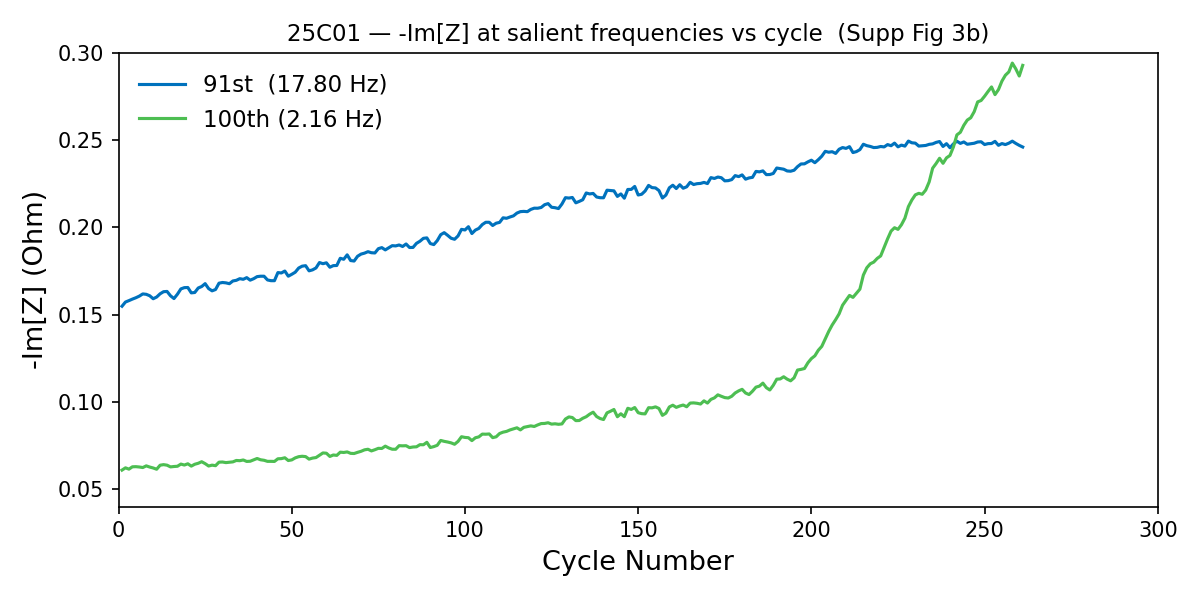
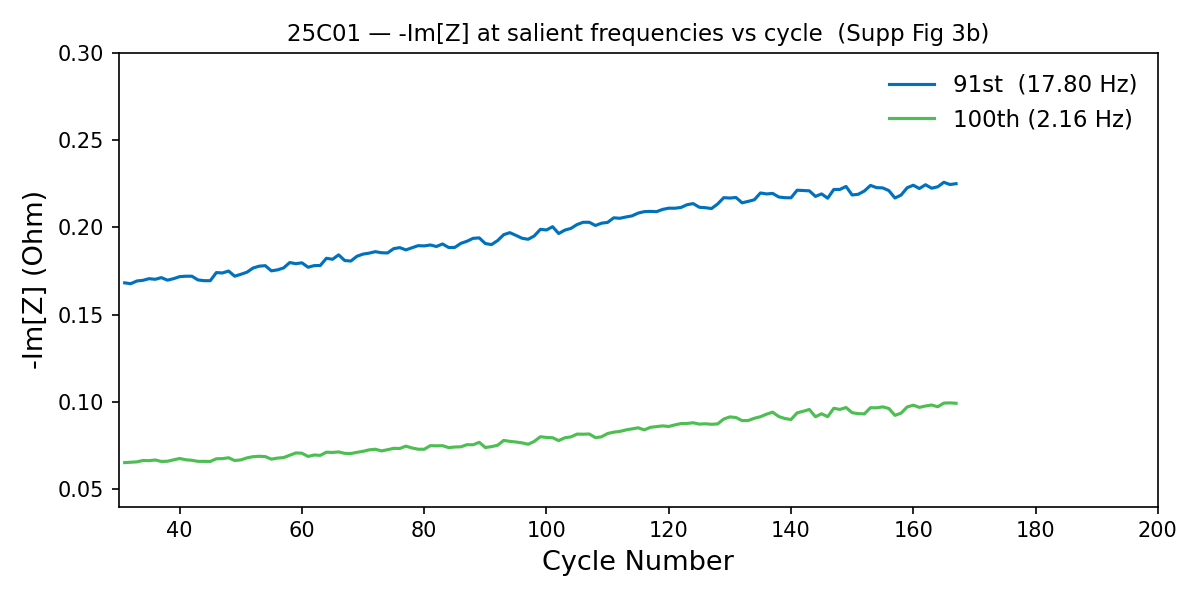
Fix supplement figures: normalize capacity retention, trim -Im[Z] to EOL
Supp Fig 4: y-axis now shows capacity retention fraction (normalized to
cap[30]) instead of absolute mAh; x-axis starts from cycle 30 to exclude
RT pre-formation cycling, matching paper convention.

Supp Fig 3b: trim -Im[Z] vs cycle to EOL (index 166 for 25C01) and skip
first 30 pre-formation cycles. Both features now show the strong linear
increase described in the paper; previously the 2.16 Hz feature showed a
non-linear post-EOL jump that was not present in the paper figure.

diff --git a/battery_gpytorch_rtx4060/battery_gpytorch/run_supplement.py b/battery_gpytorch_rtx4060/battery_gpytorch/run_supplement.py
@@ -118,17 +118,28 @@ print(f"  Saved -> suppfig3a_EIS_spectra_3D_25C01.png")
 plt.close(fig)
 
 # ── Supp Fig 3b — -Im[Z] vs cycle for the two salient frequencies ────────────
+# Skip first 30 cycles (RT pre-formation). Trim to EOL so both features appear
+# linear — the 2.16 Hz feature jumps exponentially only in post-EOL cycles.
+PRE = 30
+cap_25c01 = load_cap("Capacity_data_25C01.txt")
+ref_25c01 = cap_25c01[min(30, len(cap_25c01) - 1)]
+eol_25c01 = next((i for i, c in enumerate(cap_25c01) if c < 0.8 * ref_25c01),
+                 len(cap_25c01) - 1)
+print(f"  25C01 EOL index: {eol_25c01}  (cap={cap_25c01[eol_25c01]:.2f} mAh)")
+
+cyc3b = cycles[PRE:eol_25c01 + 1]
+im3b  = im_all[PRE:eol_25c01 + 1]
 fig, ax = plt.subplots(figsize=(8, 4))
-ax.plot(cycles, im_all[:, idx91],  color=BLUE,  lw=1.5,
+ax.plot(cyc3b, im3b[:, idx91],  color=BLUE,  lw=1.5,
         label=f"91st  ({f91:.2f} Hz)")
-ax.plot(cycles, im_all[:, idx100], color=GREEN, lw=1.5,
+ax.plot(cyc3b, im3b[:, idx100], color=GREEN, lw=1.5,
         label=f"100th ({f100:.2f} Hz)")
 ax.set_xlabel("Cycle Number",  fontsize=13)
 ax.set_ylabel("-Im[Z] (Ohm)", fontsize=13)
 ax.set_title("25C01 — -Im[Z] at salient frequencies vs cycle  (Supp Fig 3b)",
              fontsize=11)
 ax.legend(frameon=False, fontsize=11)
-ax.set_xlim(0, max(cycles[-1], 300))
+ax.set_xlim(PRE, max(cyc3b[-1] + 10, 200))
 ax.set_ylim(0.04, 0.30)
 fig.patch.set_facecolor("white")
 plt.tight_layout()
@@ -180,26 +191,32 @@ CAP_FILES = {
     "35C02": "Capacity_data_35C02.txt", "45C02": "Capacity_data_45C02.txt",
 }
 
+PRE4 = 30  # skip RT pre-formation cycles; normalize to cap[30] per paper
+
 for cell, col in zip(TRAIN, TRAIN_COLORS):
     caps = load_cap(CAP_FILES[cell])
-    cyc  = np.arange(len(caps))
-    ax.plot(cyc, caps, color=col, lw=1.2, label=f"{cell}-train")
+    ref  = caps[min(PRE4, len(caps) - 1)]
+    ret  = caps[PRE4:] / ref
+    cyc  = np.arange(PRE4, PRE4 + len(ret))
+    ax.plot(cyc, ret, color=col, lw=1.2, label=f"{cell}-train")
     print(f"  {cell} (train): {len(caps)} cycles, "
-          f"init={caps[0]:.1f}, final={caps[-1]:.1f} mAh")
+          f"ref={ref:.1f} mAh, final retention={ret[-1]:.3f}")
 
 for cell, col in zip(TEST, TEST_COLORS):
     caps = load_cap(CAP_FILES[cell])
-    cyc  = np.arange(len(caps))
-    ax.plot(cyc, caps, color=col, lw=1.2, label=f"{cell}-test")
+    ref  = caps[min(PRE4, len(caps) - 1)]
+    ret  = caps[PRE4:] / ref
+    cyc  = np.arange(PRE4, PRE4 + len(ret))
+    ax.plot(cyc, ret, color=col, lw=1.2, label=f"{cell}-test")
     print(f"  {cell} (test): {len(caps)} cycles, "
-          f"init={caps[0]:.1f}, final={caps[-1]:.1f} mAh")
+          f"ref={ref:.1f} mAh, final retention={ret[-1]:.3f}")
 
 ax.set_xlabel("Cycle number",  fontsize=13)
-ax.set_ylabel("Capacity (mAh)", fontsize=13)
+ax.set_ylabel("Capacity Retention", fontsize=13)
 ax.set_title("Capacity retention curves — all 12 cells  (Supp Fig 4)", fontsize=12)
 ax.legend(fontsize=8, ncol=2, frameon=False, loc="lower left")
 ax.set_xlim(0, 500)
-ax.set_ylim(15, 45)
+ax.set_ylim(0.5, 1.05)
 fig.patch.set_facecolor("white")
 plt.tight_layout()
 fig.savefig(OUT / "suppfig4_capacity_retention_all_cells.png", dpi=150)
